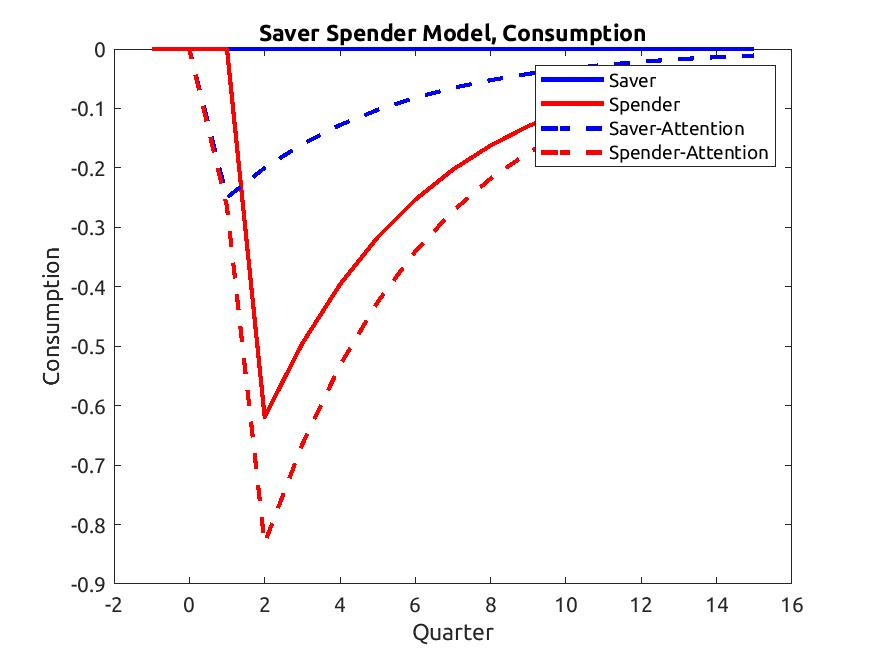
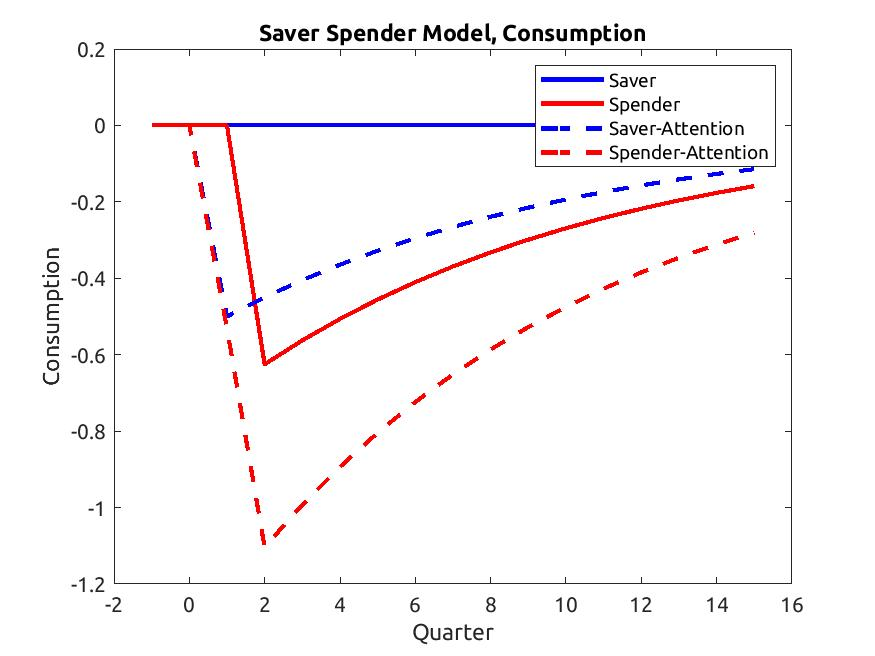
Change parameters for long term debt

diff --git a/Code/Dynare/IntertemporalMPCBased/SaverSpenderModel_dynamic.m b/Code/Dynare/IntertemporalMPCBased/SaverSpenderModel_dynamic.m
@@ -47,7 +47,7 @@ lhs =y(7);
 rhs =y(15)-(y(11)-y(16))*params(5)/params(4);
 residual(4)= lhs-rhs;
 lhs =(1-params(2)*(params(3)-1))*y(8);
-rhs =y(6)-params(2)*y(1);
+rhs =y(6)-params(2)*params(3)*y(1);
 residual(5)= lhs-rhs;
 lhs =y(5);
 rhs =y(6);
@@ -87,7 +87,7 @@ if nargout >= 2,
   g1(4,15)=(-1);
   g1(4,11)=params(5)/params(4);
   g1(4,16)=(-(params(5)/params(4)));
-  g1(5,1)=params(2);
+  g1(5,1)=params(2)*params(3);
   g1(5,6)=(-1);
   g1(5,8)=1-params(2)*(params(3)-1);
   g1(6,5)=1;

diff --git a/Code/Dynare/IntertemporalMPCBased/SaverSpenderModel_static.m b/Code/Dynare/IntertemporalMPCBased/SaverSpenderModel_static.m
@@ -44,7 +44,7 @@ lhs =y(4);
 rhs =y(4)-(y(8)-y(9))*params(5)/params(4);
 residual(4)= lhs-rhs;
 lhs =(1-params(2)*(params(3)-1))*y(5);
-rhs =y(3)-y(1)*params(2);
+rhs =y(3)-y(1)*params(2)*params(3);
 residual(5)= lhs-rhs;
 lhs =y(2);
 rhs =y(3);
@@ -83,7 +83,7 @@ if nargout >= 2,
   g1(3,9)=1;
   g1(4,8)=params(5)/params(4);
   g1(4,9)=(-(params(5)/params(4)));
-  g1(5,1)=params(2);
+  g1(5,1)=params(2)*params(3);
   g1(5,3)=(-1);
   g1(5,5)=1-params(2)*(params(3)-1);
   g1(6,2)=1;

diff --git a/Code/Dynare/IntertemporalMPCBased/IMPCParameters.m b/Code/Dynare/IntertemporalMPCBased/IMPCParameters.m
@@ -11,7 +11,7 @@ sigma = 2;
 attention = 0;
 
 % For LTDebt
-theta = 0.9;
+theta = 0.95;
 Bp_bar = 1.0/(r_bar - theta);
 A_bar = debt_limit/((1-theta)*Bp_bar);
 M_K_bar = -A_bar + 1;
